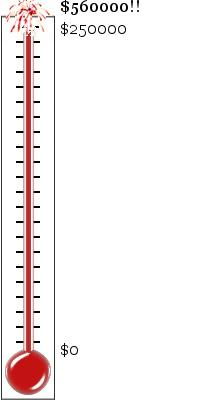
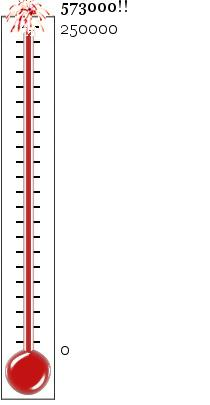
Facebook pays up!

Changed region(s): [[0.2857, 0.0, 0.6857, 0.0889], [0.2857, 0.8296, 0.3714, 0.8889]]

diff --git a/contributors.html b/contributors.html
@@ -149,6 +149,7 @@ $5000 or more, and display your logo for donations of $10,000 or more.
 <LI><A HREF=http://www.2keys.com>2Keys Security Solutions</A>
 <LI><A HREF=http://www.microsoft.com>Microsoft Corporation</A>
 <LI><A HREF=http://www.google.com>Google Inc.</A>
+<LI><A HREF=http://www.facebook.com>Facebook Inc.</A>
 </UL>
 <LI> Bronze: $5,000 to $10,000
 <UL>

diff --git a/contributors2016.html b/contributors2016.html
@@ -126,6 +126,7 @@ $5000 or more, and display your logo for donations of $10,000 or more.
 <LI><A HREF=http://www.2keys.com>2Keys Security Solutions</A>
 <LI><A HREF=http://www.microsoft.com>Microsoft Corporation</A>
 <LI><A HREF=http://www.google.com>Google Inc.</A>
+<LI><A HREF=http://www.facebook.com>Facebook Inc.</A>
 </UL>
 <LI> Bronze: $5,000 to $10,000
 <UL>
